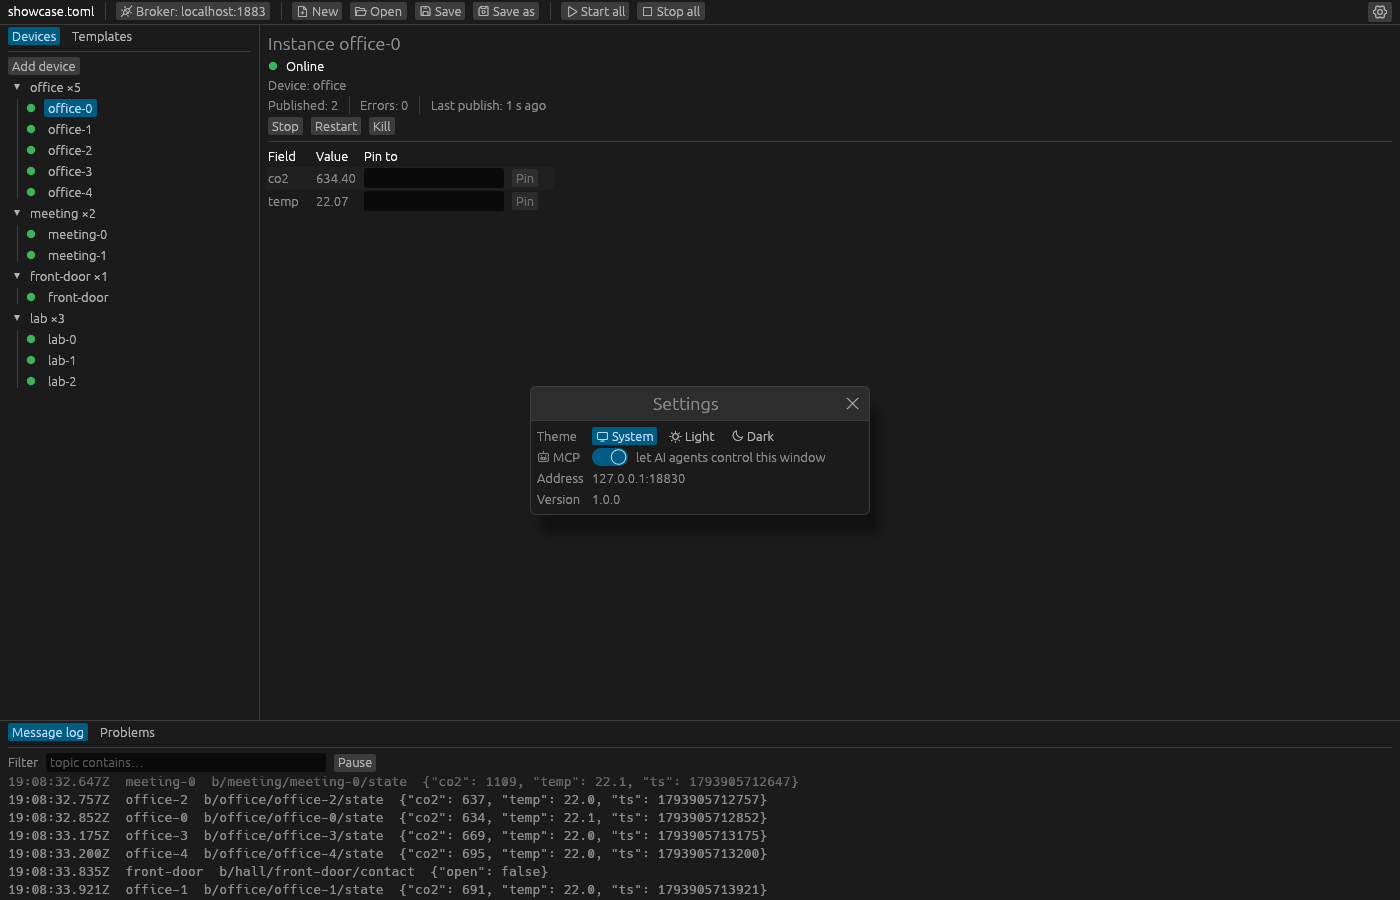
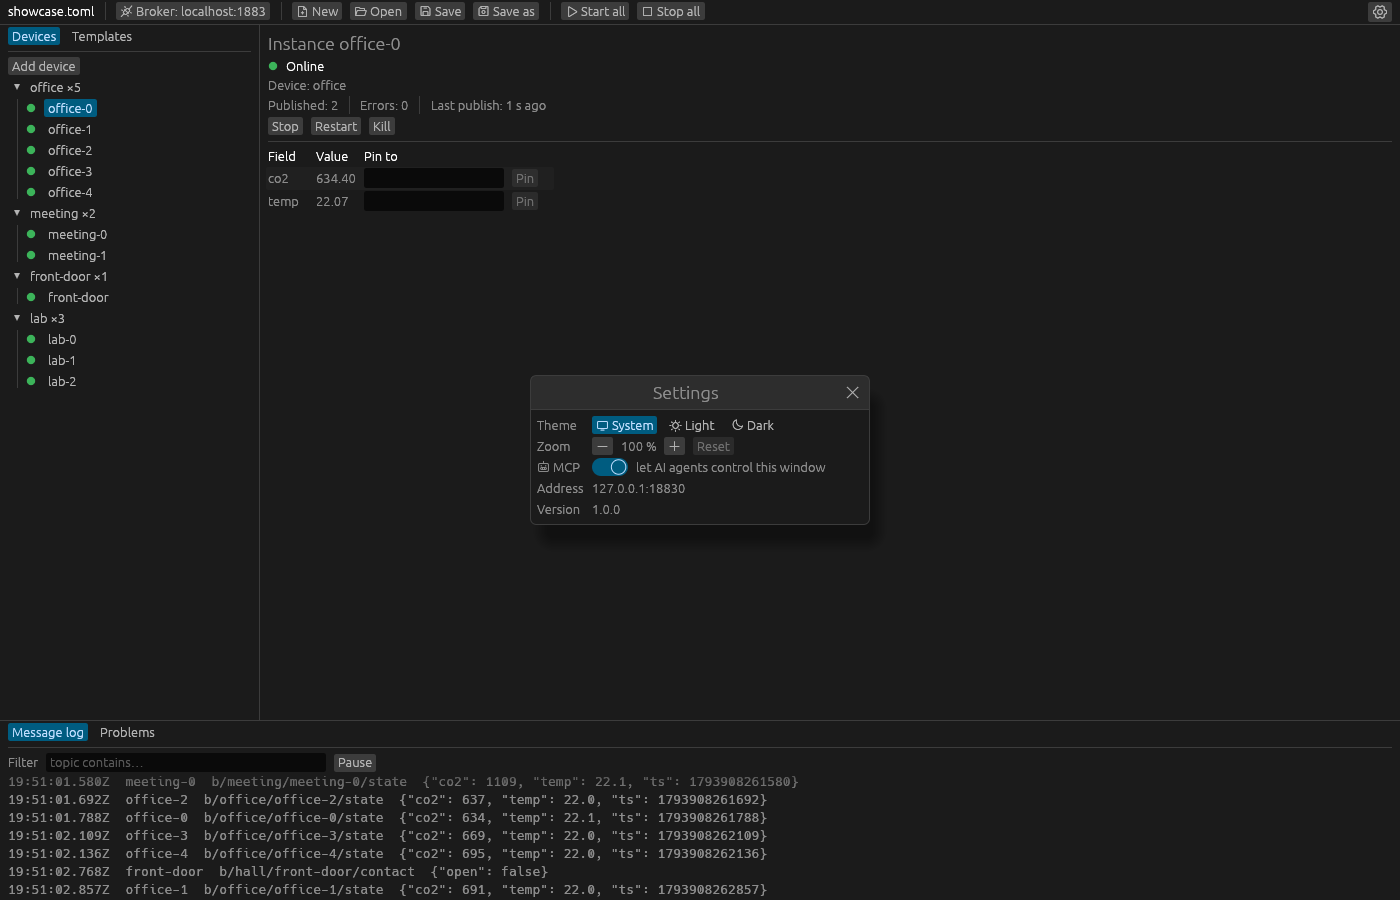
feat(gui): zoom in the settings, remembered between launches
Settings gets a Zoom row, and the app starts with the zoom it was closed
with. egui's own Ctrl + +, Ctrl + - and Ctrl + 0 keep working and change
the same zoom.

- Settings window: Zoom with zoom out, the zoom in percent, zoom in and
  Reset, in egui's 10 % steps from 20 % to 500 %; each button's tooltip
  names its shortcut.
- App settings: zoom saved with the theme (1.0 when missing, so settings
  from before load at 100 %); AppSettings::apply sets both on start. The
  app reads the zoom from egui every frame, so keyboard zoom is saved too.
- Tests: the zoom buttons zoom, reset and are saved; older settings load at
  100 %; apply sets the theme and the zoom.
- Docs: Settings page has a Zoom section; settings.png shows the row.

diff --git a/crates/senzor/src/settings.rs b/crates/senzor/src/settings.rs
@@ -35,10 +35,21 @@ impl Theme {
 
 /// Everything the settings window changes. A field missing from the stored settings, for
 /// example one added in a later version, takes its default.
-#[derive(Debug, Default, Clone, PartialEq, Serialize, Deserialize)]
+#[derive(Debug, Clone, PartialEq, Serialize, Deserialize)]
 #[serde(default)]
 pub struct AppSettings {
     pub theme: Theme,
+    /// How large everything is drawn: 1.0 is 100 %.
+    pub zoom: f32,
+}
+
+impl Default for AppSettings {
+    fn default() -> Self {
+        Self {
+            theme: Theme::default(),
+            zoom: 1.0,
+        }
+    }
 }
 
 impl AppSettings {
@@ -53,6 +64,12 @@ impl AppSettings {
 
     pub fn save(&self, storage: &mut dyn eframe::Storage) {
         eframe::set_value(storage, Self::KEY, self);
+    }
+
+    /// Sets the theme and zoom of `ctx` to these settings.
+    pub fn apply(&self, ctx: &egui::Context) {
+        ctx.set_theme(self.theme.preference());
+        ctx.set_zoom_factor(self.zoom);
     }
 }
 
@@ -86,6 +103,7 @@ mod tests {
         let mut storage = MemoryStorage::default();
         let settings = AppSettings {
             theme: Theme::Light,
+            zoom: 1.3,
         };
         settings.save(&mut storage);
         assert_eq!(AppSettings::load(Some(&storage)), settings);
@@ -107,5 +125,35 @@ mod tests {
             .0
             .insert(AppSettings::KEY.into(), "not ron at all".into());
         assert_eq!(AppSettings::load(Some(&storage)), AppSettings::default());
+    }
+
+    #[test]
+    fn settings_saved_before_zoom_existed_load_at_100_percent() {
+        let mut storage = MemoryStorage::default();
+        storage
+            .0
+            .insert(AppSettings::KEY.into(), "(theme:Dark)".into());
+        let settings = AppSettings::load(Some(&storage));
+        assert_eq!(settings.theme, Theme::Dark);
+        assert_eq!(settings.zoom, 1.0);
+        assert_eq!(AppSettings::default().zoom, 1.0);
+    }
+
+    #[test]
+    fn applying_settings_sets_the_theme_and_the_zoom() {
+        let ctx = egui::Context::default();
+        AppSettings {
+            theme: Theme::Light,
+            zoom: 1.5,
+        }
+        .apply(&ctx);
+        // egui changes the zoom when the next frame begins.
+        let mut output = ctx.run_ui(egui::RawInput::default(), |_| {});
+        output.textures_delta.clear();
+        assert_eq!(ctx.zoom_factor(), 1.5);
+        assert_eq!(
+            ctx.options(|o| o.theme_preference),
+            egui::ThemePreference::Light
+        );
     }
 }

diff --git a/crates/senzor/src/ui/settings.rs b/crates/senzor/src/ui/settings.rs
@@ -26,6 +26,7 @@ pub fn show(
                 .num_columns(2)
                 .show(ui, |ui| {
                     theme_row(ui, settings.theme, actions);
+                    zoom_row(ui);
                     mcp_row(ui, mcp, actions);
 
                     ui.label("Version");
@@ -59,6 +60,59 @@ fn theme_row(ui: &mut egui::Ui, current: Theme, actions: &mut Vec<Action>) {
             if button.clicked() && !chosen {
                 actions.push(Action::SetTheme(theme));
             }
+        }
+    });
+    ui.end_row();
+}
+
+/// egui's zoom limits, which its zoom functions clamp to.
+const MIN_ZOOM: f32 = 0.2;
+const MAX_ZOOM: f32 = 5.0;
+
+/// Zoom out, the zoom in percent, zoom in and reset, in egui's 10 % steps; the same as
+/// Ctrl + −, Ctrl + + and Ctrl + 0.
+fn zoom_row(ui: &mut egui::Ui) {
+    use egui::gui_zoom::{self, kb_shortcuts};
+
+    ui.label("Zoom");
+    ui.horizontal(|ui| {
+        let ctx = ui.ctx().clone();
+        let zoom = ctx.zoom_factor();
+        let button = |ui: &mut egui::Ui, enabled: bool, text: &str, name: &str, shortcut| {
+            let response = ui
+                .add_enabled(enabled, egui::Button::new(text))
+                .on_hover_text(format!("{name} ({})", ctx.format_shortcut(shortcut)));
+            response
+                .widget_info(|| egui::WidgetInfo::labeled(egui::WidgetType::Button, enabled, name));
+            response.clicked()
+        };
+        if button(
+            ui,
+            zoom > MIN_ZOOM,
+            icons::MINUS,
+            "Zoom out",
+            &kb_shortcuts::ZOOM_OUT,
+        ) {
+            gui_zoom::zoom_out(&ctx);
+        }
+        ui.label(format!("{:.0} %", zoom * 100.0));
+        if button(
+            ui,
+            zoom < MAX_ZOOM,
+            icons::PLUS,
+            "Zoom in",
+            &kb_shortcuts::ZOOM_IN,
+        ) {
+            gui_zoom::zoom_in(&ctx);
+        }
+        if button(
+            ui,
+            zoom != 1.0,
+            "Reset",
+            "Reset zoom",
+            &kb_shortcuts::ZOOM_RESET,
+        ) {
+            ctx.set_zoom_factor(1.0);
         }
     });
     ui.end_row();

diff --git a/crates/senzor/tests/gui.rs b/crates/senzor/tests/gui.rs
@@ -627,3 +627,50 @@ fn choosing_a_theme_in_settings_applies_it_and_keeps_it_for_the_next_launch() {
     assert_eq!(harness.ctx.theme(), egui::Theme::Dark);
     assert_eq!(harness.state().settings().theme, Theme::Dark);
 }
+
+/// Settings kept in memory, standing in for eframe's file.
+#[derive(Default)]
+struct MemoryStorage(std::collections::HashMap<String, String>);
+
+impl eframe::Storage for MemoryStorage {
+    fn get_string(&self, key: &str) -> Option<String> {
+        self.0.get(key).cloned()
+    }
+
+    fn set_string(&mut self, key: &str, value: String) {
+        self.0.insert(key.to_owned(), value);
+    }
+
+    fn remove_string(&mut self, key: &str) {
+        self.0.remove(key);
+    }
+
+    fn flush(&mut self) {}
+}
+
+#[test]
+fn the_zoom_buttons_in_settings_zoom_the_window_and_the_zoom_is_saved() {
+    use senzor::settings::AppSettings;
+    let zoom = |harness: &App| (harness.ctx.zoom_factor() * 10.0).round() / 10.0;
+    let mut harness = app(None, FakeDialogs::default());
+    click(&mut harness, "Settings");
+    harness.run();
+    assert!(harness.query_by_label("100 %").is_some());
+
+    click(&mut harness, "Zoom in");
+    harness.run();
+    assert_eq!(zoom(&harness), 1.1);
+    assert!(harness.query_by_label("110 %").is_some());
+
+    click(&mut harness, "Reset zoom");
+    harness.run();
+    assert_eq!(zoom(&harness), 1.0);
+
+    click(&mut harness, "Zoom out");
+    harness.run();
+    assert_eq!(zoom(&harness), 0.9);
+
+    let mut storage = MemoryStorage::default();
+    eframe::App::save(harness.state_mut(), &mut storage);
+    assert_eq!(AppSettings::load(Some(&storage)).zoom, 0.9);
+}

diff --git a/crates/senzor/src/app.rs b/crates/senzor/src/app.rs
@@ -63,7 +63,7 @@ impl SenzorApp {
     ) -> Self {
         ui::install_icon_font(&cc.egui_ctx);
         let settings = AppSettings::load(cc.storage);
-        cc.egui_ctx.set_theme(settings.theme.preference());
+        settings.apply(&cc.egui_ctx);
         let runtime = tokio::runtime::Runtime::new().expect("tokio runtime starts");
         let mut app = Self {
             runtime,
@@ -414,6 +414,8 @@ impl eframe::App for SenzorApp {
 
     fn ui(&mut self, ui: &mut egui::Ui, _frame: &mut eframe::Frame) {
         let ctx = ui.ctx().clone();
+        // The zoom changes through egui as well, with Ctrl + +, Ctrl + − and Ctrl + 0.
+        self.settings.zoom = ctx.zoom_factor();
         self.autostart_when_ready();
         self.handle_mcp_requests();
         self.state = self.engine().snapshot();
